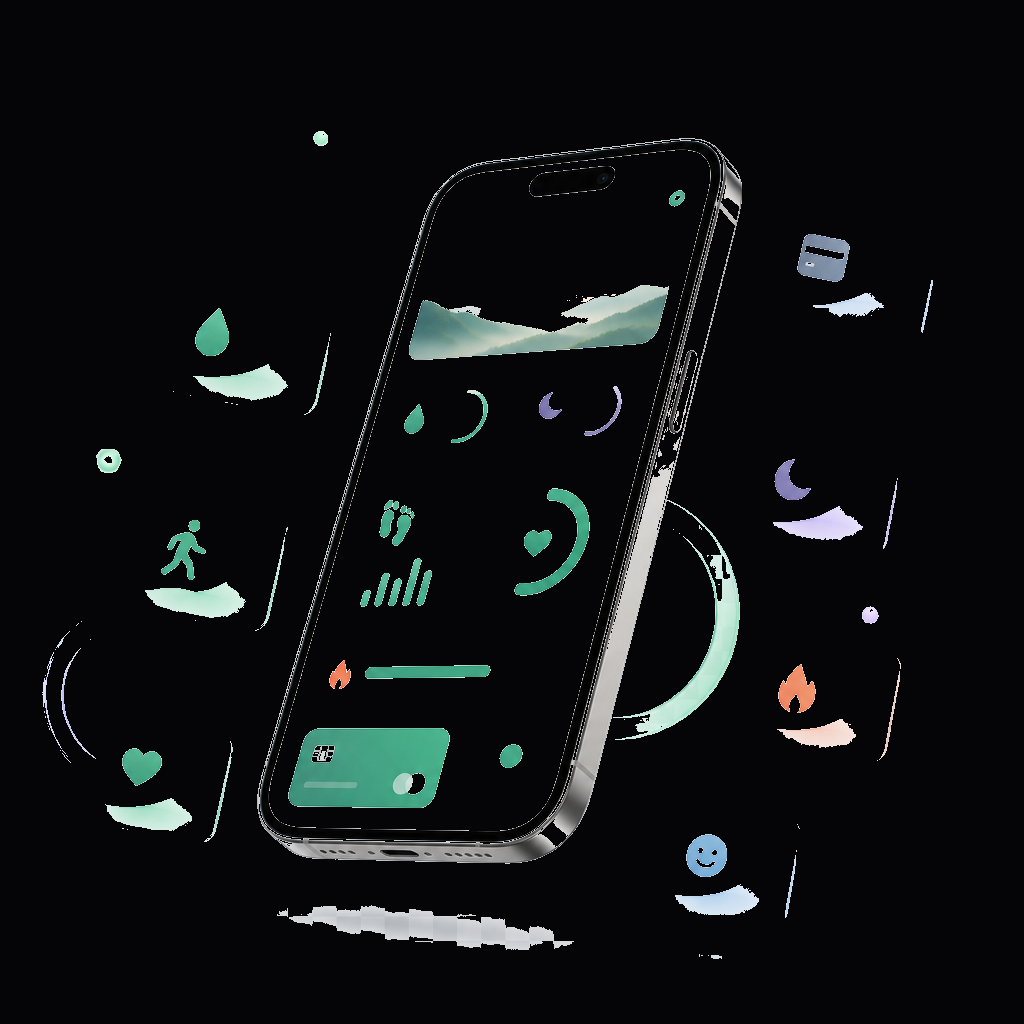
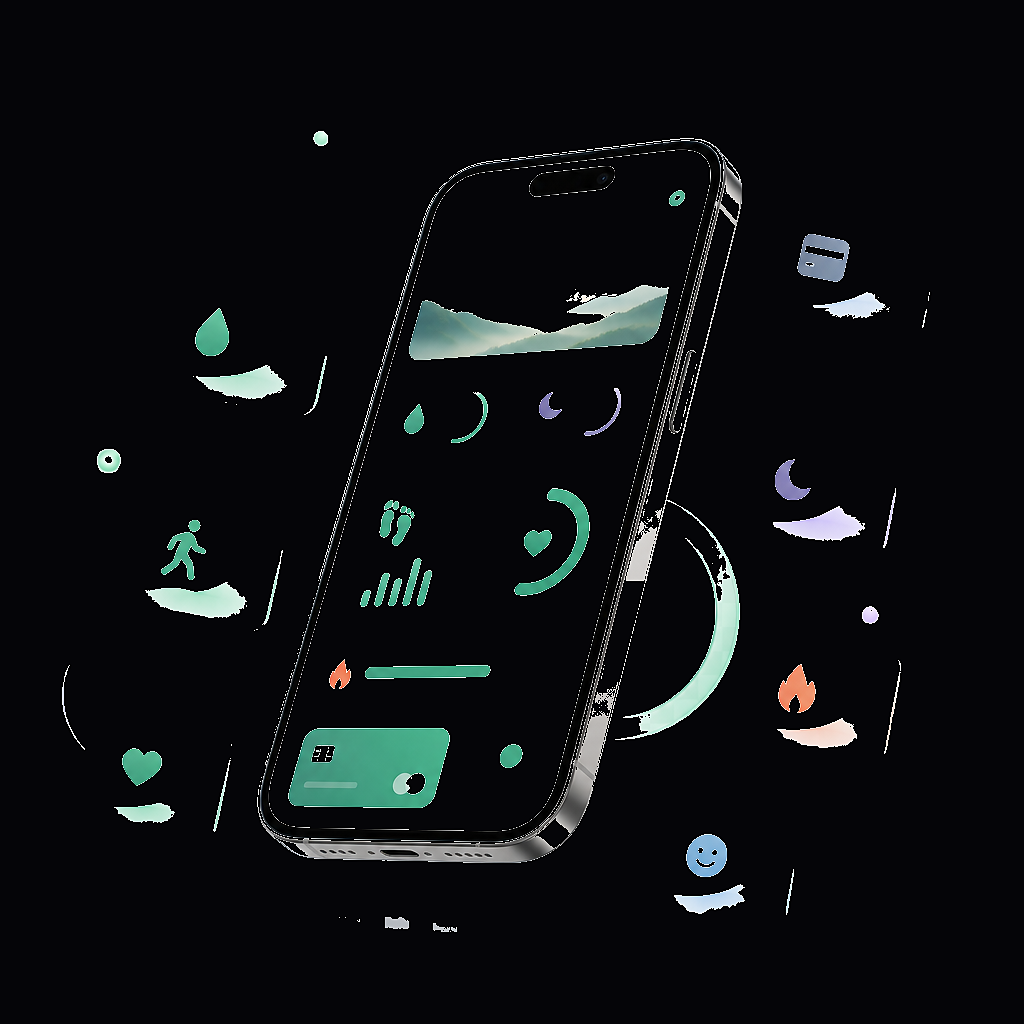
Fix hero quality: replace pixelated PNG with sharp CSS phone mockup
Low-res PNG artwork looked blurry and artifact-heavy on mobile retina
screens. Restore vector CSS phone showcase with dark theme and gold
accents for crisp rendering at any display size.

diff --git a/saathly/src/components/HeroPhoneShowcase.tsx b/saathly/src/components/HeroPhoneShowcase.tsx
@@ -1,22 +1,132 @@
 "use client";
 
-import Image from "next/image";
+import {
+  Activity,
+  CreditCard,
+  Droplets,
+  Flame,
+  Footprints,
+  Moon,
+  Sparkles,
+  Sun,
+} from "lucide-react";
 
-/** Premium hero artwork — photorealistic phone + glass cards (no UI chrome) */
+type FloatNotif = {
+  name: string;
+  text: string;
+  className: string;
+};
+
+const FLOATING: FloatNotif[] = [
+  { name: "Priya", text: "Aaj 1 glass paani 💧", className: "hero-notif hero-notif-1" },
+  { name: "Rahul", text: "Kal EMI due hai.", className: "hero-notif hero-notif-2" },
+  { name: "Amit", text: "800 steps aur.", className: "hero-notif hero-notif-3" },
+  { name: "Sneha", text: "Soft Day enabled.", className: "hero-notif hero-notif-4" },
+  { name: "Vikram", text: "Weekly streak complete 🔥", className: "hero-notif hero-notif-5" },
+];
+
+function Widget({
+  icon: Icon,
+  label,
+  value,
+  sub,
+  accent,
+}: {
+  icon: typeof Sun;
+  label: string;
+  value: string;
+  sub?: string;
+  accent?: string;
+}) {
+  return (
+    <div className="hero-widget">
+      <div className="flex items-center justify-between gap-2 mb-1.5">
+        <span className="hero-widget-label">{label}</span>
+        <span
+          className="flex h-7 w-7 items-center justify-center rounded-lg"
+          style={{ background: accent || "rgba(201, 162, 39, 0.15)" }}
+        >
+          <Icon size={14} className="text-gold-light" strokeWidth={2.2} />
+        </span>
+      </div>
+      <p className="hero-widget-value">{value}</p>
+      {sub && <p className="hero-widget-sub">{sub}</p>}
+    </div>
+  );
+}
+
+/** Vector-sharp phone mockup — crisp on all screens, dark theme */
 export function HeroPhoneShowcase() {
   return (
-    <div className="hero-phone-stage hero-artwork-stage" aria-hidden>
-      <div className="hero-phone-glow hero-artwork-glow" />
-      <div className="hero-artwork-float mx-auto w-full max-w-[min(420px,92vw)]">
-        <Image
-          src="/images/rizn-hero-visual-dark.png"
-          alt=""
-          width={1024}
-          height={1024}
-          priority
-          className="w-full h-auto"
-          sizes="(max-width: 768px) 92vw, 420px"
-        />
+    <div className="hero-phone-stage" aria-hidden>
+      <div className="hero-phone-glow" />
+
+      {FLOATING.map((n) => (
+        <div key={n.name + n.text} className={n.className}>
+          <p className="text-[10px] font-semibold text-gold-light/90">{n.name},</p>
+          <p className="text-[11px] font-medium text-ink leading-snug mt-0.5">{n.text}</p>
+        </div>
+      ))}
+
+      <div className="hero-phone-float mx-auto w-full max-w-[280px] sm:max-w-[300px]">
+        <div className="hero-phone-frame">
+          <div className="hero-phone-notch" />
+          <div className="hero-phone-screen">
+            <div className="flex items-center justify-between px-1 mb-3">
+              <div>
+                <p className="text-[10px] font-medium text-muted">Good morning</p>
+                <p className="text-sm font-bold text-ink">Priya</p>
+              </div>
+              <div className="flex h-9 w-9 items-center justify-center rounded-full bg-gradient-to-br from-gold to-gold-light text-bg text-xs font-bold shadow-md">
+                R
+              </div>
+            </div>
+
+            <div className="hero-morning-card mb-3">
+              <div className="flex items-start gap-2">
+                <Sun size={16} className="text-gold-light shrink-0 mt-0.5" />
+                <div>
+                  <p className="text-[11px] font-semibold text-ink">Morning Card</p>
+                  <p className="text-[10px] text-ink-soft leading-relaxed mt-0.5">
+                    Priya, aaj ka pehla step — paani pijiye. Chhota step, bada feel.
+                  </p>
+                </div>
+              </div>
+            </div>
+
+            <div className="grid grid-cols-2 gap-2 mb-3">
+              <Widget icon={Activity} label="Health Score" value="78" sub="↑ 4 this week" />
+              <Widget icon={Droplets} label="Water" value="5 / 8" sub="3 glasses left" accent="rgba(59, 130, 246, 0.15)" />
+              <Widget icon={Footprints} label="Steps" value="4,200" sub="Goal 8,000" accent="rgba(168, 85, 247, 0.15)" />
+              <Widget icon={Moon} label="Sleep" value="7h 12m" sub="Wind-down 10:30 PM" accent="rgba(99, 102, 241, 0.15)" />
+            </div>
+
+            <div className="hero-progress-block mb-3">
+              <div className="flex justify-between text-[10px] mb-1.5">
+                <span className="font-medium text-ink-soft">Today&apos;s progress</span>
+                <span className="font-semibold text-gold-light">62%</span>
+              </div>
+              <div className="h-1.5 rounded-full bg-white/10 overflow-hidden">
+                <div className="h-full w-[62%] rounded-full bg-gradient-to-r from-gold-dark to-gold-light" />
+              </div>
+            </div>
+
+            <div className="hero-emi-chip mb-2">
+              <CreditCard size={14} className="text-gold-light shrink-0" />
+              <div className="min-w-0">
+                <p className="text-[10px] font-semibold text-ink">Upcoming EMI</p>
+                <p className="text-[10px] text-muted truncate">HDFC · ₹12,500 · tomorrow</p>
+              </div>
+            </div>
+
+            <div className="flex items-center gap-2 rounded-xl bg-gold/10 border border-gold/25 px-3 py-2">
+              <Flame size={14} className="text-gold-light" />
+              <span className="text-[10px] font-semibold text-gold-light">6-day weekly streak</span>
+              <Sparkles size={12} className="text-gold/70 ml-auto" />
+            </div>
+          </div>
+          <div className="hero-phone-home-bar" />
+        </div>
       </div>
     </div>
   );

diff --git a/saathly/src/app/globals.css b/saathly/src/app/globals.css
@@ -544,6 +544,14 @@ h1, h2, h3 {
   position: relative;
   z-index: 2;
   animation: hero-phone-float 5s ease-in-out infinite;
+  -webkit-backface-visibility: hidden;
+  backface-visibility: hidden;
+  transform: translateZ(0);
+}
+
+.hero-artwork-img {
+  image-rendering: auto;
+  -webkit-font-smoothing: antialiased;
 }
 
 .hero-artwork-glow {
@@ -578,22 +586,38 @@ h1, h2, h3 {
   50% { transform: translateY(-10px); }
 }
 
+.hero-phone-stage {
+  position: relative;
+  min-height: 360px;
+  padding: 0.5rem 0 1.5rem;
+}
+
+@media (min-width: 1024px) {
+  .hero-phone-stage {
+    min-height: 480px;
+    padding: 1rem 0 2rem;
+  }
+}
+
 .hero-phone-float {
   position: relative;
   z-index: 2;
   animation: hero-phone-float 5s ease-in-out infinite;
+  -webkit-backface-visibility: hidden;
+  backface-visibility: hidden;
+  transform: translateZ(0);
 }
 
 .hero-phone-frame {
   position: relative;
   border-radius: 2.75rem;
   padding: 10px;
-  background: linear-gradient(145deg, #e2e8f0 0%, #f8fafc 40%, #cbd5e1 100%);
+  background: linear-gradient(145deg, #1a1a22 0%, #2a2a34 40%, #121218 100%);
   box-shadow:
-    0 2px 4px rgba(15, 23, 42, 0.06),
-    0 24px 48px rgba(15, 23, 42, 0.12),
-    0 48px 80px rgba(16, 185, 129, 0.08),
-    inset 0 1px 0 rgba(255, 255, 255, 0.9);
+    0 2px 4px rgba(0, 0, 0, 0.4),
+    0 24px 48px rgba(0, 0, 0, 0.45),
+    0 48px 80px rgba(201, 162, 39, 0.12),
+    inset 0 1px 0 rgba(255, 255, 255, 0.08);
 }
 
 .hero-phone-notch {
@@ -603,23 +627,23 @@ h1, h2, h3 {
   transform: translateX(-50%);
   width: 72px;
   height: 22px;
-  background: #0f172a;
+  background: #050508;
   border-radius: 999px;
   z-index: 10;
 }
 
 .hero-phone-screen {
   border-radius: 2.25rem;
-  background: linear-gradient(180deg, #ffffff 0%, #f8fafc 100%);
+  background: linear-gradient(180deg, #101018 0%, #0a0a0f 100%);
   padding: 2.5rem 14px 14px;
-  border: 1px solid rgba(15, 23, 42, 0.06);
+  border: 1px solid rgba(255, 255, 255, 0.08);
   overflow: hidden;
 }
 
 .hero-phone-home-bar {
   width: 96px;
   height: 4px;
-  background: rgba(15, 23, 42, 0.15);
+  background: rgba(255, 255, 255, 0.2);
   border-radius: 999px;
   margin: 10px auto 4px;
 }
@@ -627,22 +651,21 @@ h1, h2, h3 {
 .hero-morning-card {
   border-radius: 14px;
   padding: 10px 12px;
-  background: linear-gradient(135deg, rgba(251, 191, 36, 0.12) 0%, rgba(255, 255, 255, 0.9) 100%);
-  border: 1px solid rgba(251, 191, 36, 0.2);
+  background: linear-gradient(135deg, rgba(201, 162, 39, 0.14) 0%, rgba(16, 16, 24, 0.95) 100%);
+  border: 1px solid rgba(201, 162, 39, 0.25);
 }
 
 .hero-widget {
   border-radius: 12px;
   padding: 8px 10px;
-  background: #fff;
-  border: 1px solid rgba(15, 23, 42, 0.06);
-  box-shadow: 0 1px 2px rgba(15, 23, 42, 0.04);
+  background: rgba(255, 255, 255, 0.04);
+  border: 1px solid rgba(255, 255, 255, 0.08);
 }
 
 .hero-widget-label {
   font-size: 9px;
   font-weight: 600;
-  color: #64748b;
+  color: var(--muted);
   text-transform: uppercase;
   letter-spacing: 0.04em;
 }
@@ -650,21 +673,21 @@ h1, h2, h3 {
 .hero-widget-value {
   font-size: 15px;
   font-weight: 700;
-  color: #0f172a;
+  color: var(--ink);
   line-height: 1.2;
 }
 
 .hero-widget-sub {
   font-size: 9px;
-  color: #94a3b8;
+  color: var(--ink-soft);
   margin-top: 2px;
 }
 
 .hero-progress-block {
   padding: 10px 12px;
   border-radius: 12px;
-  background: #fff;
-  border: 1px solid rgba(15, 23, 42, 0.06);
+  background: rgba(255, 255, 255, 0.03);
+  border: 1px solid rgba(255, 255, 255, 0.08);
 }
 
 .hero-emi-chip {
@@ -673,8 +696,8 @@ h1, h2, h3 {
   gap: 8px;
   padding: 8px 10px;
   border-radius: 12px;
-  background: #fffbeb;
-  border: 1px solid #fde68a;
+  background: rgba(201, 162, 39, 0.08);
+  border: 1px solid rgba(201, 162, 39, 0.22);
 }
 
 @keyframes hero-notif-in {
@@ -693,11 +716,11 @@ h1, h2, h3 {
   max-width: 140px;
   padding: 8px 10px;
   border-radius: 14px;
-  background: rgba(255, 255, 255, 0.92);
-  border: 1px solid rgba(255, 255, 255, 0.8);
+  background: rgba(16, 16, 24, 0.92);
+  border: 1px solid rgba(255, 255, 255, 0.12);
   box-shadow:
-    0 4px 16px rgba(15, 23, 42, 0.08),
-    0 0 0 1px rgba(15, 23, 42, 0.04);
+    0 4px 16px rgba(0, 0, 0, 0.35),
+    0 0 0 1px rgba(201, 162, 39, 0.08);
   backdrop-filter: blur(12px);
   animation:
     hero-notif-in 0.6s ease backwards,
